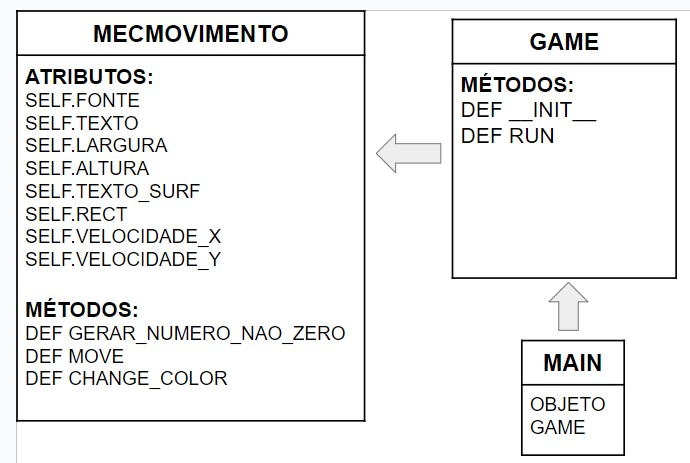
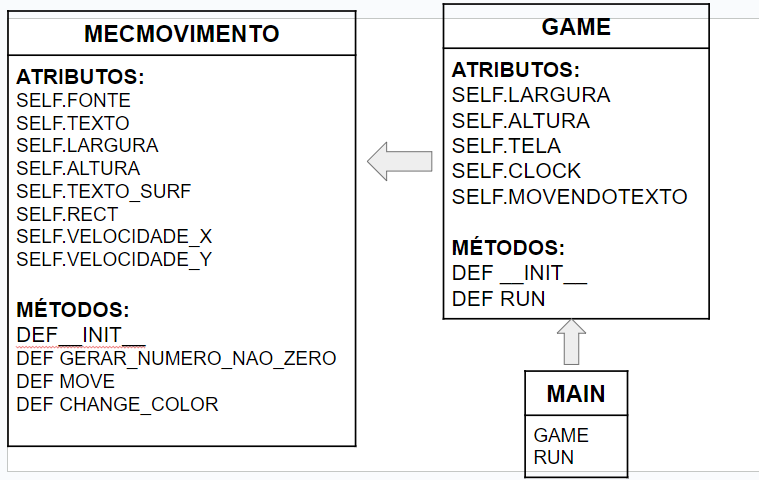
Atualização Readme.md

Changed region(s): [[0.0, 0.0, 1.0, 0.9978], [0.0, 0.9676, 0.0304, 0.9978]]

diff --git a/Bate-Bate/README.md b/Bate-Bate/README.md
@@ -56,9 +56,9 @@ self.tela: Define a criação da tela com a dimensões especificadas, com 600 de
 
 self.clock: Define o objeto clock que controla a taxa de quadros do game
 
-self.MovText: Cria um objeto da classe MovendoTexto e passa as características da classe para o objeto criado.
+self.MovendoTexto: Cria um objeto da classe MovendoTexto e passa as características da classe para o objeto criado.
 
-Métodos.
+Métodos:
 __init__: Construtor da classe Game, inicializa os atributos.
 
 run: Este método executa o jogo, deixando em um loop, movendo o texto na tela, até que o usuário feche a janela.
